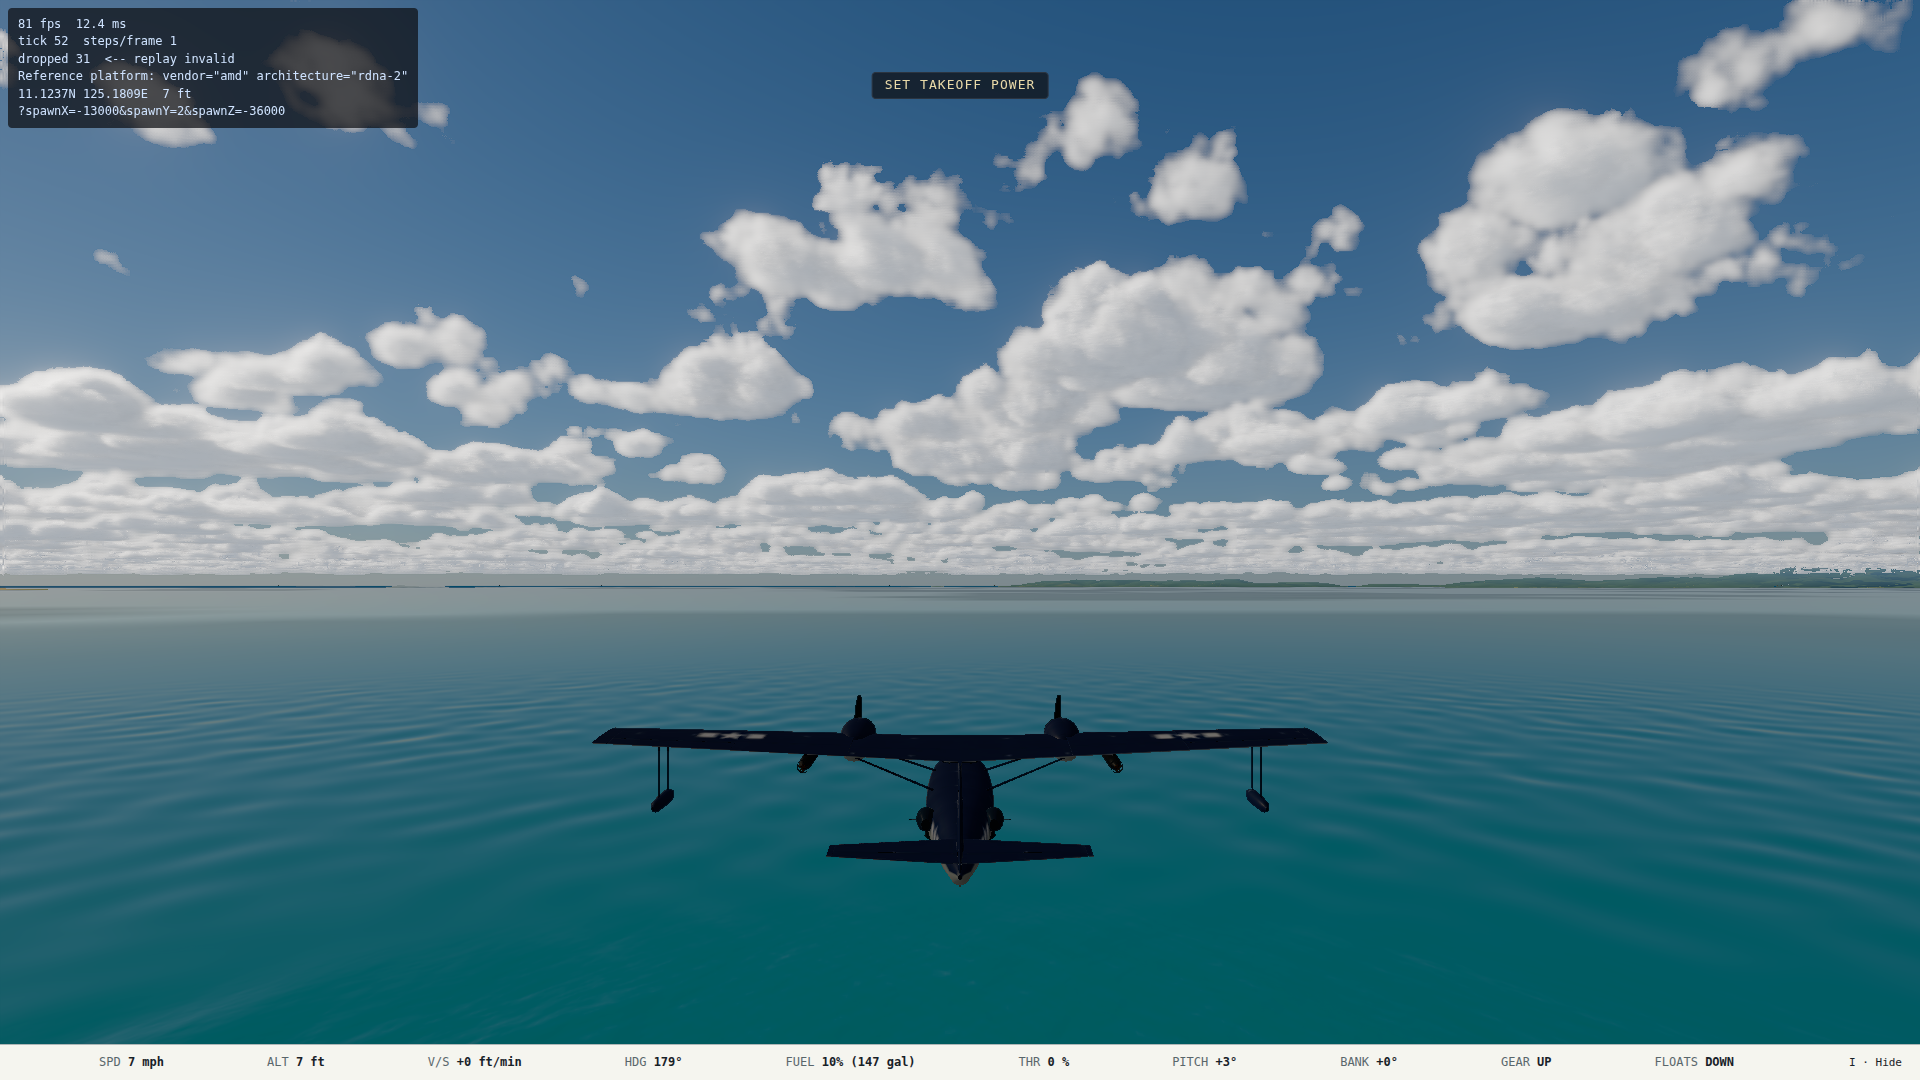
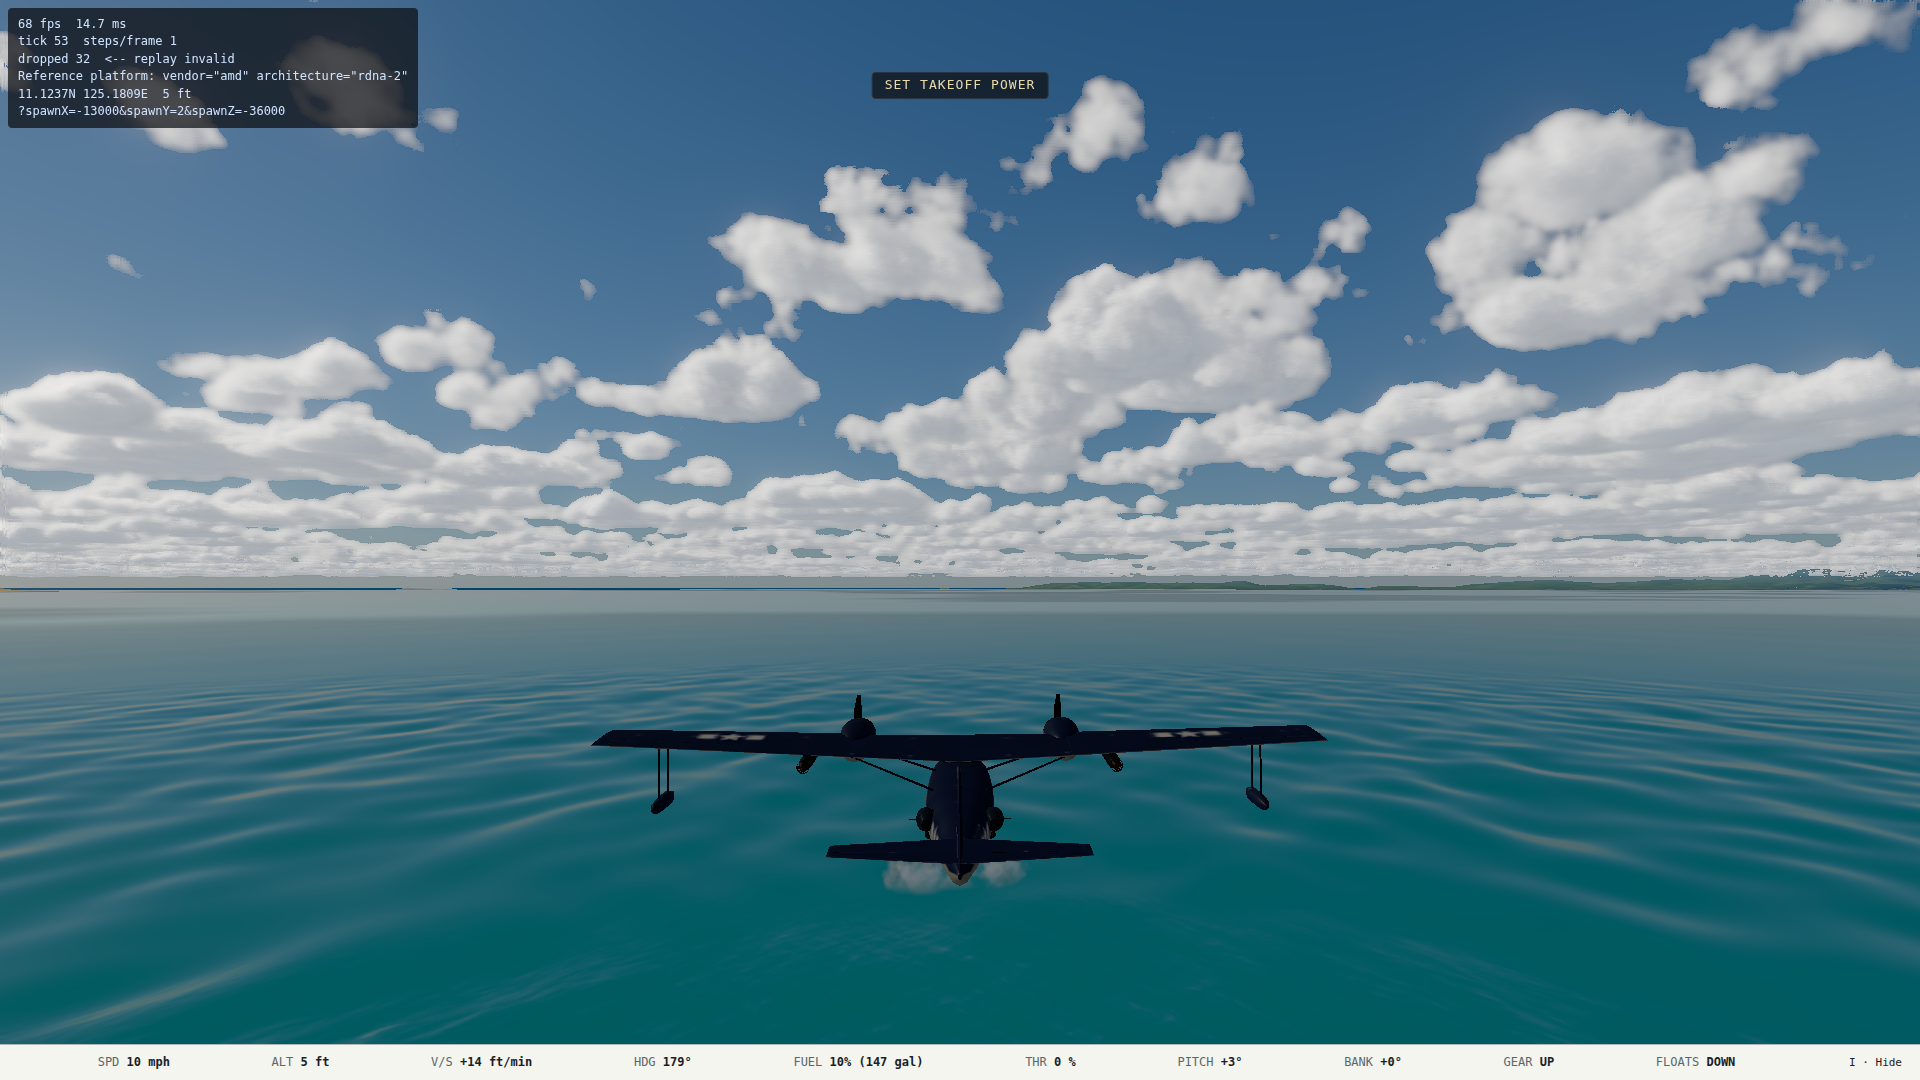
Refine Catalina water handling and spray

diff --git a/src/render/fx/catalog.ts b/src/render/fx/catalog.ts
@@ -16,12 +16,12 @@ import { FX_SHEETS } from './sheetManifest.js'
 export const RECIPE_IDS = [
   'bomb.land', 'bomb.water', 'rocket.land', 'rocket.water', 'rocket.motor',
   'round.land', 'round.water', 'round.deck', 'round.structure', 'round.ship', 'round.aircraft',
-  'crash.land', 'crash.water', 'crash.deck', 'water.lap', 'water.wake',
+  'crash.land', 'crash.water', 'crash.deck', 'water.lap', 'water.wake', 'water.planing',
   'kill.air', 'flak.burst', 'muzzle.heavy', 'muzzle.light', 'engine.smoke', 'smoke.black', 'aircraft.fire', 'wreck.smoke', 'ship.fire', 'structure.collapse', 'torpedo.wake',
 ] as const
 export type RecipeId = (typeof RECIPE_IDS)[number]
 /** Recipes `events.ts` drives as state-driven emitters (they carry a sustained stream). */
-export const SUSTAINED_RECIPES: readonly RecipeId[] = ['engine.smoke', 'smoke.black', 'aircraft.fire', 'wreck.smoke', 'ship.fire', 'kill.air', 'structure.collapse', 'rocket.motor', 'torpedo.wake', 'water.lap', 'water.wake']
+export const SUSTAINED_RECIPES: readonly RecipeId[] = ['engine.smoke', 'smoke.black', 'aircraft.fire', 'wreck.smoke', 'ship.fire', 'kill.air', 'structure.collapse', 'rocket.motor', 'torpedo.wake', 'water.lap', 'water.wake', 'water.planing']
 
 const range = z.tuple([z.number().nonnegative(), z.number().nonnegative()]).refine(([a, b]) => a <= b, 'range must be [min, max]')
 const emitterSchema = z.object({
@@ -138,11 +138,14 @@ const RAW: Record<RecipeId, { emitters: RawEmitter[]; source: string }> = {
   // Shared contact cues for every seaworthy craft. A stationary emitter leaves small, short-lived
   // patches around the waterline; the moving emitter leaves world-stationary foam behind the stern.
   'water.lap': { emitters: [
-    { mode: 'stream', sheet: 'spray', ratePerS: 4, lifeS: [1.2, 2.2], speedMps: [0, 0.35], direction: 'ring', spreadDeg: 5, radiusM: 1.2, sizeM: [1.2, 3.8], alpha: 0.24, tint: WATER, dragPerS: 2.5, accelYMps2: 0 },
+    { mode: 'stream', sheet: 'spray', ratePerS: 8, lifeS: [1.2, 2.4], speedMps: [0, 0.45], direction: 'ring', spreadDeg: 6, radiusM: 1.2, sizeM: [1.4, 4.2], alpha: 0.36, tint: WATER, dragPerS: 2.5, accelYMps2: 0 },
   ], source: 'gameplay estimate (shared seaworthiness, 2026-10-12): subtle waterline foam at rest' },
   'water.wake': { emitters: [
-    { mode: 'stream', sheet: 'spray', ratePerS: 24, lifeS: [3.5, 7], speedMps: [0, 0.8], direction: 'ring', spreadDeg: 8, radiusM: 0.8, sizeM: [1.8, 7.5], alpha: 0.5, tint: WATER, dragPerS: 2, accelYMps2: 0 },
+    { mode: 'stream', sheet: 'spray', ratePerS: 36, lifeS: [4, 8], speedMps: [0, 1], direction: 'ring', spreadDeg: 8, radiusM: 1, sizeM: [2.2, 8.5], alpha: 0.7, tint: WATER, dragPerS: 2, accelYMps2: 0 },
   ], source: 'gameplay estimate (shared seaworthiness, 2026-10-12): stern foam scales by craft speed' },
+  'water.planing': { emitters: [
+    { mode: 'stream', sheet: 'spray', ratePerS: 42, lifeS: [0.7, 1.5], speedMps: [2, 6], direction: 'up', spreadDeg: 55, radiusM: 1.4, sizeM: [0.8, 3.2], alpha: 0.78, tint: WATER, dragPerS: 1.5, accelYMps2: GRAVITY, seaKill: true },
+  ], source: 'gameplay estimate (Catalina water-operation review, 2026-10-12): visible step spray before liftoff' },
   // Ruling R6: fireball on the kill edge; the trail is sustained at the wreck, which falls since
   // damage stages (2026-10-09). The dark fragments are the airframe's skin and spars going down.
   'kill.air': { emitters: [fireball(6, [16, 41], [2.4, 3.2]), sparks(16),

diff --git a/tests/render/fxEvents.test.ts b/tests/render/fxEvents.test.ts
@@ -47,9 +47,9 @@ describe('fx events (effects design §3.2)', () => {
     const pose = { position: v3(100, 0.25, 200), headingRad: 0, pitchRad: 0.01, rollRad: -0.02 }
     const ship = (speedMps: number) => ({ id: 'maru', spec: { lengthM: 100, maxSpeedMps: 20 }, state: { speedMps } })
     const still = nextFxEvents(NO_FX_MEMORY, view(1, combat, aircraft, { ships: [ship(0)], shipPoses: [pose] })).sustained
-    expect(still.find((s) => s.key === 'water:maru')).toMatchObject({ recipe: 'water.lap', intensity: 0.45, position: v3(100, 0.4, 248) })
+    expect(still.find((s) => s.key === 'water:maru')).toMatchObject({ recipe: 'water.lap', intensity: 0.45, position: v3(100, 0.55, 248) })
     const moving = nextFxEvents(NO_FX_MEMORY, view(1, combat, aircraft, { ships: [ship(10)], shipPoses: [pose] })).sustained
-    expect(moving.find((s) => s.key === 'water:maru')).toMatchObject({ recipe: 'water.wake', intensity: 0.8, position: v3(100, 0.4, 248) })
+    expect(moving.find((s) => s.key === 'water:maru')).toMatchObject({ recipe: 'water.wake', intensity: 0.8, position: v3(100, 0.55, 248) })
     const sunk = { ...combat, ships: { ...combat.ships, maru: { ...combat.ships['maru']!, sinkingFraction: 1 } } }
     expect(nextFxEvents(NO_FX_MEMORY, view(1, sunk, aircraft, { ships: [ship(10)], shipPoses: [pose] })).sustained.some((s) => s.key === 'water:maru')).toBe(false)
   })
@@ -65,10 +65,12 @@ describe('fx events (effects design §3.2)', () => {
       const state = createState({ position: v3(0, surface.heightM + water.hullDepthM - draft, 0), velocity: v3(speedMps, surface.verticalSpeedMps, 0), gearFraction: 0, flapFraction: 1 })
       return { id: 'pby', spec: pbySpec, state, previous: state, controls: { pitch: 0, roll: 0, yaw: 0, throttle: 0 }, impact: null as Impact | null }
     }
-    for (const [speed, recipe] of [[0, 'water.lap'], [20, 'water.wake']] as const) {
+    for (const [speed, recipe] of [[0, 'water.lap'], [20, 'water.wake'], [30, 'water.wake']] as const) {
       const pby = afloat(speed)
       const combat = createCombat([pby])
-      expect(nextFxEvents(NO_FX_MEMORY, view(1, combat, [pby], { water: support })).sustained.find((s) => s.key === 'water:pby')?.recipe).toBe(recipe)
+      const sustained = nextFxEvents(NO_FX_MEMORY, view(1, combat, [pby], { water: support })).sustained
+      expect(sustained.filter((s) => s.key.startsWith('water:pby:')).map((s) => s.recipe)).toEqual([recipe, recipe])
+      expect(sustained.some((s) => s.key === 'water-planing:pby')).toBe(speed > water.planingSpeedMps)
     }
   })
 

diff --git a/src/render/fx/events.ts b/src/render/fx/events.ts
@@ -162,15 +162,31 @@ export function nextFxEvents(prev: FxMemory, w: FxWorldView): { readonly memory:
         const aft = speed > 0.2
           ? v3(-a.state.velocity.x / speed, 0, -a.state.velocity.z / speed)
           : qRotate(pose.attitude, v3(-1, 0, 0))
+        const right = qRotate(pose.attitude, v3(0, 0, 1))
         const lengthM = a.spec.geometry.wingSpanM * 0.62
-        const position = v3(pose.position.x + aft.x * lengthM * 0.42, waterlineY + 0.12, pose.position.z + aft.z * lengthM * 0.42)
-        sustained.push({
-          key: `water:${a.id}`,
-          recipe: speed > 1 ? 'water.wake' : 'water.lap',
-          intensity: speed > 1 ? clamp01(0.25 + speed / water.takeoffSpeedMps) : 0.65,
-          position,
-          velocity: ZERO,
-        })
+        const visibleY = Math.max(waterlineY, surfaceY, SEA_LEVEL_M) + 0.3
+        const stern = v3(pose.position.x + aft.x * lengthM * 0.42, visibleY, pose.position.z + aft.z * lengthM * 0.42)
+        const halfWakeM = water.hullBeamM * 0.34
+        const recipe = speed > 1 ? 'water.wake' : 'water.lap'
+        const intensity = speed > 1 ? clamp01(0.25 + speed / water.takeoffSpeedMps) : 0.65
+        for (const [side, name] of [[-1, 'port'], [1, 'starboard']] as const) {
+          sustained.push({
+            key: `water:${a.id}:${name}`,
+            recipe,
+            intensity,
+            position: add(stern, scale(right, side * halfWakeM)),
+            velocity: ZERO,
+          })
+        }
+        if (planing > 0) {
+          sustained.push({
+            key: `water-planing:${a.id}`,
+            recipe: 'water.planing',
+            intensity: Math.max(0.25, planing),
+            position: v3(pose.position.x + aft.x * lengthM * 0.1, visibleY, pose.position.z + aft.z * lengthM * 0.1),
+            velocity: ZERO,
+          })
+        }
       }
     }
     if (a.impact !== null && seenCrashTick[a.id] !== a.impact.tick) {
@@ -226,7 +242,7 @@ export function nextFxEvents(prev: FxMemory, w: FxWorldView): { readonly memory:
     const bowX = Math.sin(pose.headingRad), bowZ = -Math.cos(pose.headingRad)
     const position = v3(
       pose.position.x - bowX * ship.spec.lengthM * 0.48,
-      pose.position.y + 0.15,
+      Math.max(pose.position.y, SEA_LEVEL_M) + 0.3,
       pose.position.z - bowZ * ship.spec.lengthM * 0.48,
     )
     sustained.push({

diff --git a/src/sim/waterSurface.ts b/src/sim/waterSurface.ts
@@ -105,12 +105,14 @@ export function watercraftPoseAt(
   headingRad: number,
   lengthM: number,
   beamM: number,
+  heaveBeamM: number = beamM,
 ): WatercraftPose {
   if (ctx === undefined) return { heightM: 0, verticalSpeedMps: 0, pitchRad: 0, rollRad: 0 }
   const bow = { x: Math.sin(headingRad), z: -Math.cos(headingRad) }
   const starboard = { x: Math.cos(headingRad), z: Math.sin(headingRad) }
   const halfLength = Math.max(1, lengthM * 0.38)
   const halfBeam = Math.max(1, beamM * 0.42)
+  const halfHeaveBeam = Math.max(1, Math.min(halfBeam, heaveBeamM * 0.42))
   const sample = (along: number, across: number) => waterSurfaceAt(
     ctx,
     x + bow.x * along + starboard.x * across,
@@ -119,12 +121,13 @@ export function watercraftPoseAt(
   const center = sample(0, 0)
   const fore = sample(halfLength, 0), aft = sample(-halfLength, 0)
   const stbd = sample(0, halfBeam), port = sample(0, -halfBeam)
+  const heaveStbd = sample(0, halfHeaveBeam), heavePort = sample(0, -halfHeaveBeam)
   const inertiaResponse = clamp(75 / Math.max(15, lengthM), 0.22, 1)
   const maxPitch = (2.5 * Math.PI / 180) * inertiaResponse
   const maxRoll = (4 * Math.PI / 180) * inertiaResponse
   return {
-    heightM: (2 * center.heightM + fore.heightM + aft.heightM + stbd.heightM + port.heightM) / 6,
-    verticalSpeedMps: (2 * center.verticalSpeedMps + fore.verticalSpeedMps + aft.verticalSpeedMps + stbd.verticalSpeedMps + port.verticalSpeedMps) / 6,
+    heightM: (2 * center.heightM + fore.heightM + aft.heightM + heaveStbd.heightM + heavePort.heightM) / 6,
+    verticalSpeedMps: (2 * center.verticalSpeedMps + fore.verticalSpeedMps + aft.verticalSpeedMps + heaveStbd.verticalSpeedMps + heavePort.verticalSpeedMps) / 6,
     pitchRad: clamp(Math.atan2(fore.heightM - aft.heightM, 2 * halfLength) * inertiaResponse, -maxPitch, maxPitch),
     // Positive body roll lowers starboard in the project's x-forward/y-up/z-starboard frame.
     rollRad: clamp(Math.atan2(port.heightM - stbd.heightM, 2 * halfBeam) * inertiaResponse, -maxRoll, maxRoll),

diff --git a/tests/sim/waterOperations.test.ts b/tests/sim/waterOperations.test.ts
@@ -26,6 +26,7 @@ const spec: AircraftSpec = {
   ...base,
   waterOperations: {
     hullDepthM: 2.5,
+    hullBeamM: 3.1,
     displacementDraftM: 0.5,
     planingDraftM: 0.1,
     floatHalfSpanM: 13.6,
@@ -153,6 +154,38 @@ describe('water operations', () => {
     }
     expect(maxSpeedMps, 'the hull never reached its authored water takeoff speed').toBeGreaterThanOrEqual(catalina.waterOperations!.takeoffSpeedMps)
     expect(airborneTick, 'the Catalina did not climb 10 m clear of the water within 60 seconds').not.toBeNull()
+  })
+
+  it('carries a configured Catalina arrival through the real impact seam and rejects an overspeed one', () => {
+    const arrive = (speedMps: number, sinkMps: number, pitchDeg = 5) => {
+      const start = createState({
+        position: v3(0, catalina.waterOperations!.hullDepthM + 0.3, 0),
+        velocity: v3(speedMps, -sinkMps, 0),
+        attitude: qFromAxisAngle(v3(0, 0, 1), pitchDeg * Math.PI / 180),
+        gearFraction: 0,
+        flapFraction: 1,
+        fuelKg: 1800,
+      })
+      let world = createWorldOf({
+        aircraft: [{
+          id: 'catalina', spec: catalina, state: start, previous: start,
+          controls: { pitch: 0, roll: 0, yaw: 0, throttle: 0, gearDown: false, flapDown: true },
+          assistMemory: undefined, impact: null, parked: false,
+        }],
+        player: 'catalina', terrain: sea, wind: v3(0, 0, 0),
+      })
+      for (let i = 0; i < 12; i++) world = advance(world, DT).world
+      return playerAircraft(world)
+    }
+
+    const safe = arrive(40, 3.4, -1)
+    expect(safe.impact).toBeNull()
+    expect(onWater(catalina, safe.state, 0)).toBe(true)
+    expect(safeWaterArrival(catalina, {
+      ...safe.state,
+      position: v3(0, catalina.waterOperations!.hullDepthM, 0),
+      velocity: v3(50, -1, 0),
+    }, 0)).toBe(false)
   })
 
   it('records a completed open-water landing rather than an airfield recovery', () => {

diff --git a/src/audio/radio.ts b/src/audio/radio.ts
@@ -97,8 +97,8 @@ export const RADIO_LINES: Readonly<Record<string, string | null>> = {
   'Instructor: Catalina water qualification. Wheels are up and wingtip floats are down. Set takeoff power and hold a straight step-taxi run.': null,
   'Instructor: Let the hull climb onto the step, then ease back near 76 knots. Keep the floats down until clear of the water.': null,
   'Instructor: Airborne. Retract the floats with F, climb through 500 feet, and fly south to the circuit marker.': null,
-  'Instructor: Turn back over the bay. Wheels stay up; lower the floats with F and slow below 83 knots.': null,
-  'Instructor: Cleared to land anywhere on open water. Hold a shallow nose-up attitude and settle the hull gently.': null,
+  'Instructor: Turn back over the bay. Wheels stay up; lower the floats with F and slow below 95 mph (83 knots).': null,
+  'Instructor: Cleared to land anywhere on open water. Hold 0-10 degrees nose-up, wings nearly level, and keep the sink rate below 690 feet per minute.': null,
   // The tutorial's instructor (B4) is text-only, deliberately: no recordings, so an edit to a line costs nothing.
   "Instructor: Welcome to Tacloban. Hold = to bring the throttle to full, and keep your brakes off.": null,
   "Instructor: Rolling. Hold her straight with Z and X, ease back on the stick (S) at 85 miles an hour, and let her fly off.": null,

diff --git a/tests/sim/waterSurface.test.ts b/tests/sim/waterSurface.test.ts
@@ -32,4 +32,17 @@ describe('shared support sea', () => {
     expect(Math.abs(carrier.pitchRad)).toBeLessThan(Math.abs(small.pitchRad))
     expect(Math.abs(carrier.rollRad)).toBeLessThan(Math.abs(small.rollRad))
   })
+
+  it('can derive flying-boat heave from the hull without shrinking its float-supported roll span', () => {
+    const ctx = waterSurfaceContext(9, v3(4.4, 0, 0))
+    const floatAveraged = watercraftPoseAt(ctx, 150, -70, 0.6, 20, 27.2)
+    const hullAveraged = watercraftPoseAt(ctx, 150, -70, 0.6, 20, 27.2, 3.1)
+    expect(hullAveraged.heightM).not.toBeCloseTo(floatAveraged.heightM, 6)
+    expect(hullAveraged.verticalSpeedMps).not.toBeCloseTo(floatAveraged.verticalSpeedMps, 6)
+    expect(hullAveraged.rollRad).toBeCloseTo(floatAveraged.rollRad, 12)
+    const bob = Array.from({ length: 601 }, (_, tick) => watercraftPoseAt(
+      waterSurfaceContext(tick / 60, v3(4.4, 0, 0)), 150, -70, 0.6, 20, 27.2, 3.1,
+    ).heightM)
+    expect(Math.max(...bob) - Math.min(...bob)).toBeGreaterThan(0.2)
+  })
 })

diff --git a/tests/e2e/pbyCapture.spec.ts b/tests/e2e/pbyCapture.spec.ts
@@ -44,6 +44,13 @@ test('Catalina Hangar and water-operation views', async ({ page }) => {
   await page.keyboard.down('Equal')
   await page.keyboard.down('ArrowDown')
   try {
+    await page.waitForFunction(() => {
+      const flight = (window as DiagWindow).__ww2!.playerFlight()!
+      return Math.hypot(flight.state.velocity.x, flight.state.velocity.z) > flight.spec.waterOperations!.planingSpeedMps + 5
+        && flight.state.position.y < flight.spec.waterOperations!.hullDepthM + 5
+    }, undefined, { timeout: 120_000, polling: 100 })
+    await page.waitForTimeout(400)
+    await page.screenshot({ path: `${OUT}/pby-5a-on-step-wake-torpedoes.png` })
     await page.waitForFunction((y) => (window as DiagWindow).__ww2!.aircraftPositionM().y > y + 10, restY, { timeout: 120_000, polling: 250 })
   } finally {
     await page.keyboard.up('ArrowDown')

diff --git a/tests/render/cockpitFeedback.test.ts b/tests/render/cockpitFeedback.test.ts
@@ -158,7 +158,7 @@ describe('follow camera and numeric data', () => {
 
   it('labels the same lever as FLOATS for a water-capable aircraft', () => {
     const amphibian = { ...spec, waterOperations: {
-      hullDepthM: 2.5, displacementDraftM: 0.5, planingDraftM: 0.1, floatHalfSpanM: 13.6, floatDepthM: 2.3,
+      hullDepthM: 2.5, hullBeamM: 3.1, displacementDraftM: 0.5, planingDraftM: 0.1, floatHalfSpanM: 13.6, floatDepthM: 2.3,
       restPitchDeg: 3, planingPitchDeg: 6, planingSpeedMps: 20, takeoffSpeedMps: 40,
       maxLandingSpeedMps: 45, maxLandingSinkMps: 3, displacementDragCoeff: 0.08,
       planingDragCoeff: 0.02, taxiYawRateDegPerSec: 8, source: 'test',

diff --git a/src/sim/flight/schema.ts b/src/sim/flight/schema.ts
@@ -487,6 +487,9 @@ const AircraftSpecObject = z.object({
   waterOperations: z.object({
     /** Body-origin-to-keel depth at the step, metres. */
     hullDepthM: positive,
+    /** Maximum hull beam at the waterline. Kept separate from the much wider
+     * stabilising-float tread so heave follows the main boat hull. */
+    hullBeamM: positive,
     /** How far the keel sits below the mean surface at rest and on the step. */
     displacementDraftM: positive,
     planingDraftM: positive,

diff --git a/src/sim/flight/model.ts b/src/sim/flight/model.ts
@@ -772,6 +772,7 @@ export function step(
         Math.atan2(forward.x, -forward.z),
         spec.geometry.wingSpanM * 0.62,
         spec.waterOperations.floatHalfSpanM * 2,
+        spec.waterOperations.hullBeamM,
       )
     : null
   const bodyRates = startGround !== null && onWaterStart

diff --git a/docs/handoff/2026-10-12-pby-5a-water-operations.md b/docs/handoff/2026-10-12-pby-5a-water-operations.md
@@ -28,6 +28,9 @@ combat sortie.
 - *Handbook of Erection and Maintenance Instructions, Navy Models PBY-5 and
   PBY-5A*, AN 01-5MA-2, 15 May 1945: Figure 1 and station geometry, hull,
   floats, gear, propellers, armament installations, bomb and torpedo loads.
+- [Catalina Preservation Society specifications](https://pbycatalina.com/specifications/):
+  manufacturer-calculation figures include the 10 ft 2.5 in hull beam and a
+  0.8 m (2 ft 9 in) draught at 27,000 lb.
 - *Naval Aviation Squadron Histories, Volume 2*, VPB-33: PBY-5A assignment
   and the squadron's move to Leyte on 23 October 1944.
 
@@ -51,6 +54,12 @@ VPB-33-inspired but does not claim one exact bureau number.
   Ships filter the same samples by hull dimensions, so a carrier responds more
   gently than a flying boat. Moving ships and water-supported aircraft leave a
   speed-scaled stern wake; stationary craft receive subtle waterline lapping.
+- Post-flight visual review seats the PBY at the sourced 0.8 m displacement
+  draught, derives heave from its 3.111 m boat hull rather than averaging it
+  across the 27.229 m float tread, and uses the mission's Beaufort-3 sea so
+  rest motion reads clearly. Twin waterline trails, brighter foam and a
+  dedicated planing-spray emitter keep water interaction visible through the
+  takeoff run.
 - Scenarios can author `afloatAt`. World construction derives the hull height,
   rest pitch, zero velocity, gear-up and floats-down state from the spec.
 - Landing reports use `{ kind: 'water', id: 'open-water', name: 'Open water' }`.
@@ -130,6 +139,7 @@ draw calls.
 - [Gear and floats down, four bombs](captures/2026-10-12-pby-5a/pby-5a-hangar-gear-floats-down-bombs.png)
 - [Clean side profile](captures/2026-10-12-pby-5a/pby-5a-hangar-clean-side.png)
 - [Afloat with two Mk 13 torpedoes](captures/2026-10-12-pby-5a/pby-5a-afloat-torpedoes.png)
+- [On the step with twin wake and planing spray](captures/2026-10-12-pby-5a/pby-5a-on-step-wake-torpedoes.png)
 - [Water takeoff with torpedoes](captures/2026-10-12-pby-5a/pby-5a-water-takeoff-torpedoes.png)
 
 ## Verification
@@ -153,6 +163,16 @@ draw calls.
   - focused watercraft/wake/replay integration: 97 passed;
   - Nexus Radeon 680M correctness E2E: Catalina water takeoff passed; the live
     task force's translation and changing heave/pitch/roll passed.
+- Player-review follow-up: the safe sink estimate is now 3.5 m/s (689 ft/min),
+  while the sourced 83-knot approach ceiling remains unchanged. Mission text
+  gives the equivalent 95 mph shown by the HUD and states the sink, bank and
+  pitch expectations instead of hiding them in the contact model.
+- Final player-review gate: 435 test files passed; 6,381 tests passed and 12
+  intentionally skipped, with typecheck, lint, dependency boundaries and all
+  byte-identical Blender rebuilds included. The Nexus Radeon 680M water-path
+  E2E and the three-checkpoint afloat/on-step/airborne capture E2E also passed.
+  The gate caught and repaired both stale radio-silence keys after the mission
+  landing instructions were clarified.
 
 No budget-titled browser spec was changed or run. The browser checks above are
 correctness tests; the repository continues to require exclusive
